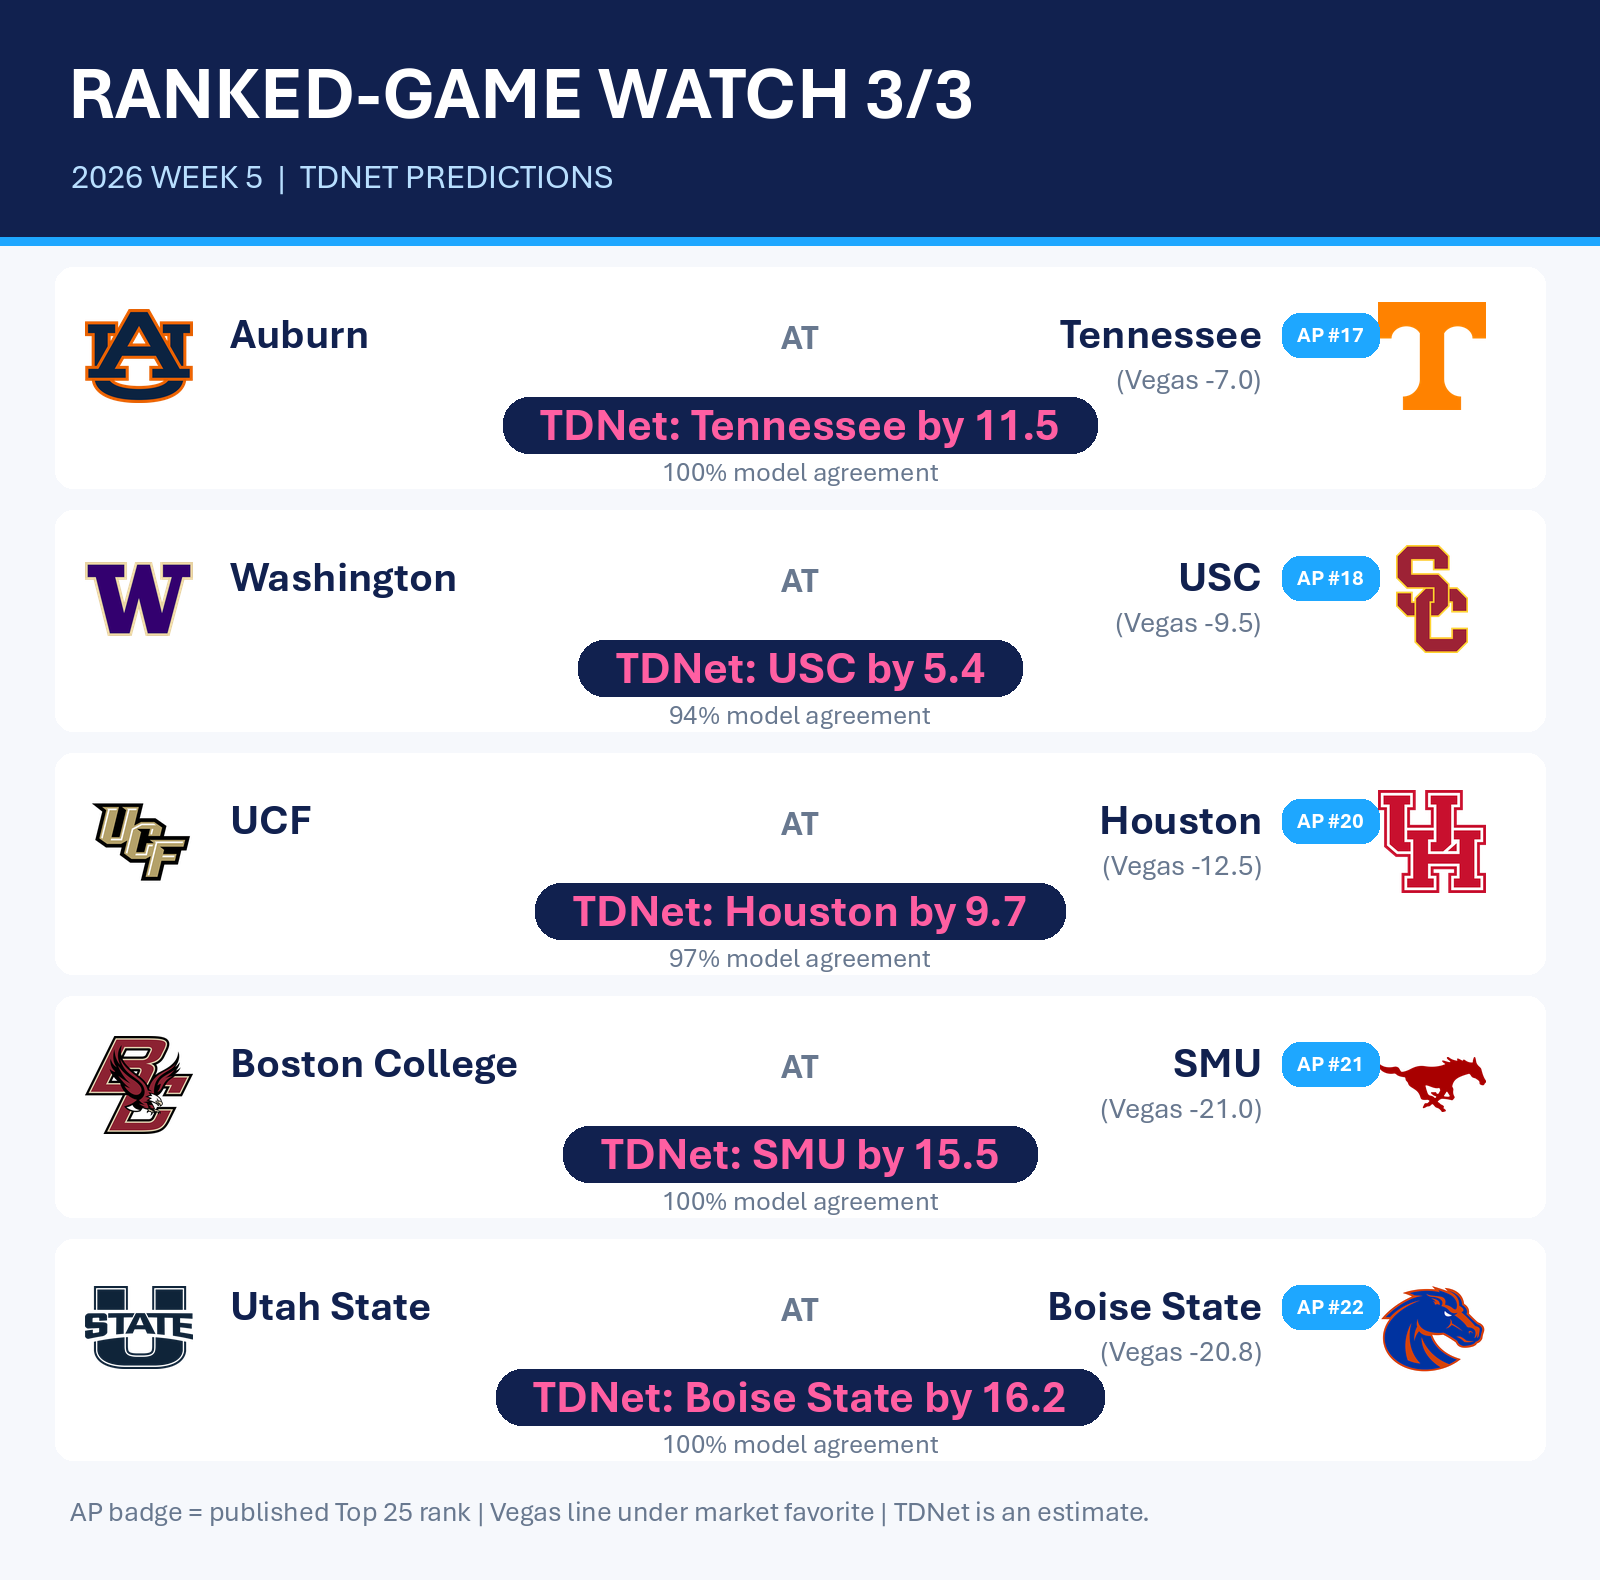
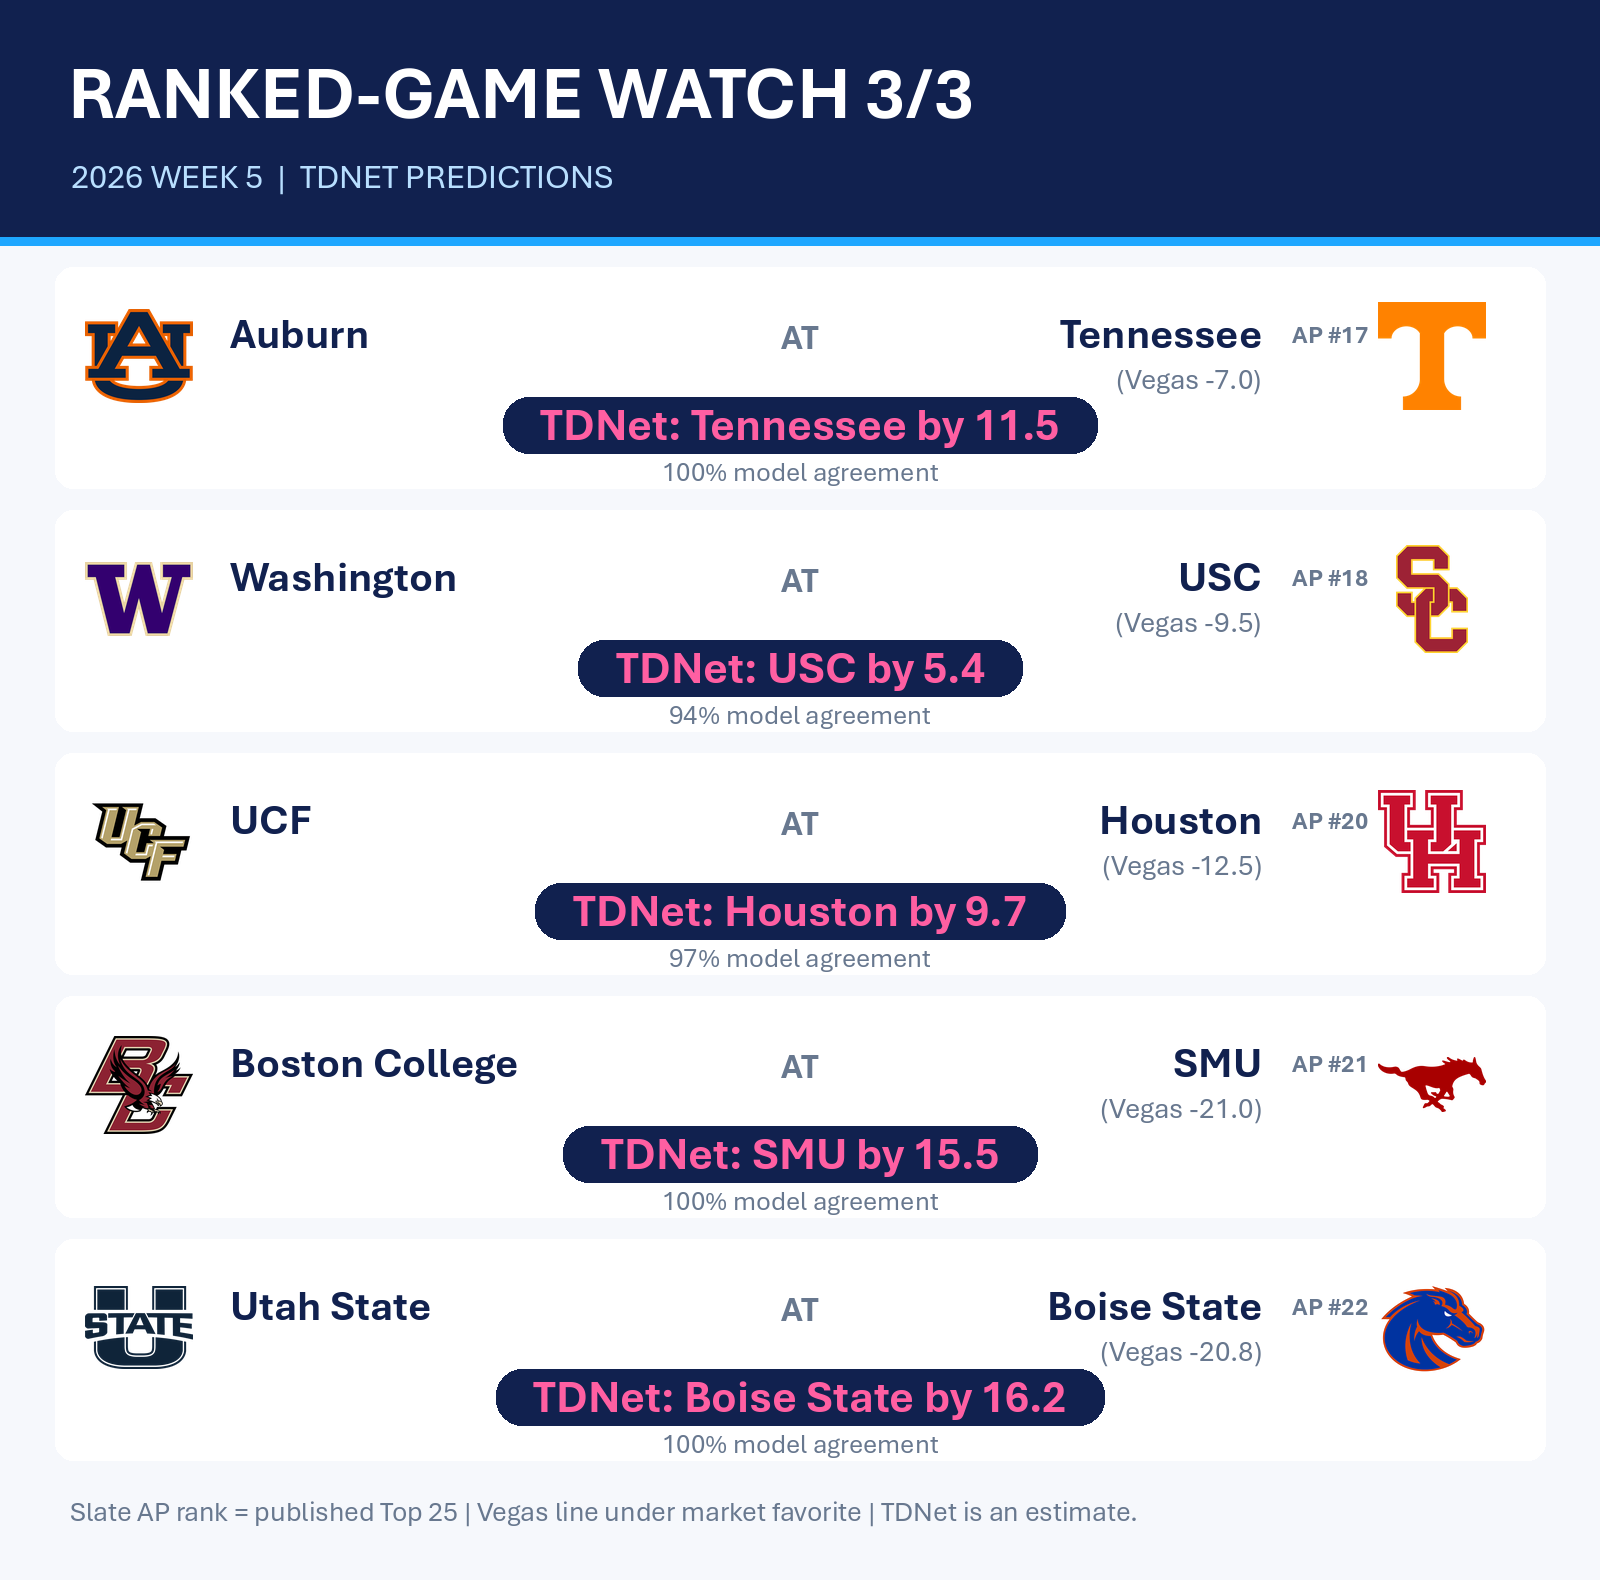
Use slate text for AP ranks on matchup cards

diff --git a/scripts/publication/build_social_media.py b/scripts/publication/build_social_media.py
@@ -107,7 +107,7 @@ def render_games(path: Path, games: pd.DataFrame, title: str, subtitle: str) -> 
         raise ValueError("A matchup card needs one to five games")
     canvas, draw, step = base_card(
         title, subtitle,
-        "AP badge = published Top 25 rank | Vegas line under market favorite | TDNet is an estimate.",
+        "Slate AP rank = published Top 25 | Vegas line under market favorite | TDNet is an estimate.",
         len(games),
     )
 
@@ -129,11 +129,9 @@ def render_games(path: Path, games: pd.DataFrame, title: str, subtitle: str) -> 
         logo(canvas, row.home_team, 1378, y + 35, 108)
         away_rank, home_rank = ap_rank(row, "away"), ap_rank(row, "home")
         if away_rank is not None:
-            draw.rounded_rectangle((197, y + 46, 294, y + 90), radius=18, fill=BLUE)
-            draw.text((245, y + 68), f"AP #{away_rank}", font=font(22, True), fill="white", anchor="mm")
+            draw.text((245, y + 68), f"AP #{away_rank}", font=font(25, True), fill=MUTED, anchor="mm")
         if home_rank is not None:
-            draw.rounded_rectangle((1282, y + 46, 1379, y + 90), radius=18, fill=BLUE)
-            draw.text((1330, y + 68), f"AP #{home_rank}", font=font(22, True), fill="white", anchor="mm")
+            draw.text((1330, y + 68), f"AP #{home_rank}", font=font(25, True), fill=MUTED, anchor="mm")
         away_text_x = 312 if away_rank is not None else 230
         home_text_x = 1262 if home_rank is not None else 1342
         draw.text((away_text_x, y + 67), row.away_team, font=fit_text(draw, row.away_team, 400, 42, bold=True), fill=NAVY, anchor="lm")
@@ -247,11 +245,11 @@ def build(season: int, week: int, output: Path) -> list[Path]:
         render_games(output / f"{stem}.png", group, f"RANKED-GAME WATCH {part + 1}/{ranked_groups}", f"{season} WEEK {week}  |  TDNET PREDICTIONS")
         close = group.sort_values("predicted_margin").iloc[0]
         matchup = f"{close.away_team} at {close.home_team}"
-        add(stem, f"{len(group)} Week {week} games involving AP-ranked teams. The tightest projection here: {matchup}, {close.pred_winner} by {float(close.predicted_margin):.1f}. #CFB #CollegeFootball #CFBPredictions", "Ranked-team games with team logos and AP rank badges, TDNet projected winner and margin, model agreement, and the published Vegas line beneath the market favorite.", [games_path])
+        add(stem, f"{len(group)} Week {week} games involving AP-ranked teams. The tightest projection here: {matchup}, {close.pred_winner} by {float(close.predicted_margin):.1f}. #CFB #CollegeFootball #CFBPredictions", "Ranked-team games with team logos and slate AP rank text, TDNet projected winner and margin, model agreement, and the published Vegas line beneath the market favorite.", [games_path])
 
     close5 = closest.head(5)
     render_games(output / "07_closest_games.png", close5, "FIVE GAMES ON THE EDGE", f"{season} WEEK {week}  |  SMALLEST PROJECTED MARGINS")
-    add("07_closest_games", f"Week {week}'s five closest TDNet projections are all within {float(close5['predicted_margin'].max()):.1f} points. Which one goes down to the wire? #CFB #CollegeFootball #CFBPredictions", "Five games with the smallest TDNet projected margins, team logos and AP rank badges where applicable, model agreement, and the published Vegas line beneath the market favorite.", [closest_path])
+    add("07_closest_games", f"Week {week}'s five closest TDNet projections are all within {float(close5['predicted_margin'].max()):.1f} points. Which one goes down to the wire? #CFB #CollegeFootball #CFBPredictions", "Five games with the smallest TDNet projected margins, team logos and slate AP rank text where applicable, model agreement, and the published Vegas line beneath the market favorite.", [closest_path])
 
     gaps = render_poll_gaps(output / "08_tdnet_vs_ap.png", poll, season, week)
     leader = gaps.iloc[0]
@@ -259,14 +257,14 @@ def build(season: int, week: int, output: Path) -> list[Path]:
 
     split5 = all_games.sort_values(["model_agreement", "game_id"]).head(5)
     render_games(output / "09_model_splits.png", split5, "WHERE MODELS SPLIT", f"{season} WEEK {week}  |  LOWEST PICK AGREEMENT")
-    add("09_model_splits", f"The TDNet models disagree most on these five Week {week} games. The closest vote is just {float(split5['model_agreement'].min()):.0%} for one side. #CFB #CollegeFootball #CFBPredictions", "Five games with the lowest model agreement, team logos and AP rank badges where applicable, TDNet projected margins, and the published Vegas line beneath the market favorite.", [all_games_path])
+    add("09_model_splits", f"The TDNet models disagree most on these five Week {week} games. The closest vote is just {float(split5['model_agreement'].min()):.0%} for one side. #CFB #CollegeFootball #CFBPredictions", "Five games with the lowest model agreement, team logos and slate AP rank text where applicable, TDNet projected margins, and the published Vegas line beneath the market favorite.", [all_games_path])
 
     index = [f"# {season} Week {week} social media pack", "", f"{len(created)} graphics with captions in matching `.md` files. Pick five or six to schedule on Monday. All figures use the published Week {week} snapshot; game predictions can become stale after kickoff.", "", "| Graphic | Topic |", "| --- | --- |"]
     topics = {"01_ratings_comparison": "Eight-system ratings table", "02_rating_rank_disagreement": "Rating-system rank disagreement", "03_tdnet_top10": "TDNet Top 10", "04_ranked_games_1": "Ranked games, part 1", "05_ranked_games_2": "Ranked games, part 2", "06_ranked_games_3": "Ranked games, part 3", "07_closest_games": "Closest projected games", "08_tdnet_vs_ap": "TDNet vs. AP poll gaps", "09_model_splits": "Games with the lowest model agreement"}
     for image in created:
         topic = topics[image.stem]
         index.append(f"| [{image.name}]({image.name}) | {topic}; [caption]({image.stem}.md) |")
-    index.extend(["", "Blue AP badges beside team logos show the published AP Top 25 rank; unranked teams have no badge. The parenthetical Vegas line is the spread captured at publication, shown beneath the market favorite; it can differ from the TDNet pick. Review the image and caption before scheduling. Post game previews before the relevant kickoff; avoid sharing outdated predictions after results are known. Captions omit links to keep them short. Team logos come from the repository's logo set.", ""])
+    index.extend(["", "Slate AP rank text beside team logos shows the published AP Top 25 rank; unranked teams have no rank label. The parenthetical Vegas line is the spread captured at publication, shown beneath the market favorite; it can differ from the TDNet pick. Review the image and caption before scheduling. Post game previews before the relevant kickoff; avoid sharing outdated predictions after results are known. Captions omit links to keep them short. Team logos come from the repository's logo set.", ""])
     (output / "README.md").write_text("\n".join(index), encoding="utf-8")
     return created
 

diff --git a/social_media/2026/week_05/README.md b/social_media/2026/week_05/README.md
@@ -14,4 +14,4 @@
 | [08_tdnet_vs_ap.png](08_tdnet_vs_ap.png) | TDNet vs. AP poll gaps; [caption](08_tdnet_vs_ap.md) |
 | [09_model_splits.png](09_model_splits.png) | Games with the lowest model agreement; [caption](09_model_splits.md) |
 
-Blue AP badges beside team logos show the published AP Top 25 rank; unranked teams have no badge. The parenthetical Vegas line is the spread captured at publication, shown beneath the market favorite; it can differ from the TDNet pick. Review the image and caption before scheduling. Post game previews before the relevant kickoff; avoid sharing outdated predictions after results are known. Captions omit links to keep them short. Team logos come from the repository's logo set.
+Slate AP rank text beside team logos shows the published AP Top 25 rank; unranked teams have no rank label. The parenthetical Vegas line is the spread captured at publication, shown beneath the market favorite; it can differ from the TDNet pick. Review the image and caption before scheduling. Post game previews before the relevant kickoff; avoid sharing outdated predictions after results are known. Captions omit links to keep them short. Team logos come from the repository's logo set.

diff --git a/social_media/README.md b/social_media/README.md
@@ -12,6 +12,6 @@ The ratings comparison and rank-disagreement graphics are included when their pu
 
 Matchup cards show each game's Vegas spread captured at publication in parentheses beneath the market favorite. That line can differ from the TDNet predicted winner or margin. A missing published line stops generation rather than leaving a game unlabeled.
 
-Blue `AP #` badges next to team logos show the AP Top 25 rank in the published pregame snapshot. Teams outside that Top 25 have no badge.
+Slate `AP #` text next to team logos shows the AP Top 25 rank in the published pregame snapshot. Teams outside that Top 25 have no rank label.
 
 On Monday, review the pack, choose five or six posts, and schedule game previews before their kickoffs. Rankings and ratings can stay relevant longer; do not schedule a prediction after the game. The captions deliberately omit URLs, so you can paste them directly into X and add a link only when useful.

diff --git a/social_media/2026/week_05/07_closest_games.md b/social_media/2026/week_05/07_closest_games.md
@@ -4,7 +4,7 @@ Week 5's five closest TDNet projections are all within 1.3 points. Which one goe
 
 ## Image alt text
 
-Five games with the smallest TDNet projected margins, team logos and AP rank badges where applicable, model agreement, and the published Vegas line beneath the market favorite.
+Five games with the smallest TDNet projected margins, team logos and slate AP rank text where applicable, model agreement, and the published Vegas line beneath the market favorite.
 
 ## Sources
 

diff --git a/social_media/2026/week_05/09_model_splits.md b/social_media/2026/week_05/09_model_splits.md
@@ -4,7 +4,7 @@ The TDNet models disagree most on these five Week 5 games. The closest vote is j
 
 ## Image alt text
 
-Five games with the lowest model agreement, team logos and AP rank badges where applicable, TDNet projected margins, and the published Vegas line beneath the market favorite.
+Five games with the lowest model agreement, team logos and slate AP rank text where applicable, TDNet projected margins, and the published Vegas line beneath the market favorite.
 
 ## Sources
 

diff --git a/social_media/2026/week_05/04_ranked_games_1.md b/social_media/2026/week_05/04_ranked_games_1.md
@@ -4,7 +4,7 @@
 
 ## Image alt text
 
-Ranked-team games with team logos and AP rank badges, TDNet projected winner and margin, model agreement, and the published Vegas line beneath the market favorite.
+Ranked-team games with team logos and slate AP rank text, TDNet projected winner and margin, model agreement, and the published Vegas line beneath the market favorite.
 
 ## Sources
 

diff --git a/social_media/2026/week_05/05_ranked_games_2.md b/social_media/2026/week_05/05_ranked_games_2.md
@@ -4,7 +4,7 @@
 
 ## Image alt text
 
-Ranked-team games with team logos and AP rank badges, TDNet projected winner and margin, model agreement, and the published Vegas line beneath the market favorite.
+Ranked-team games with team logos and slate AP rank text, TDNet projected winner and margin, model agreement, and the published Vegas line beneath the market favorite.
 
 ## Sources
 

diff --git a/social_media/2026/week_05/06_ranked_games_3.md b/social_media/2026/week_05/06_ranked_games_3.md
@@ -4,7 +4,7 @@
 
 ## Image alt text
 
-Ranked-team games with team logos and AP rank badges, TDNet projected winner and margin, model agreement, and the published Vegas line beneath the market favorite.
+Ranked-team games with team logos and slate AP rank text, TDNet projected winner and margin, model agreement, and the published Vegas line beneath the market favorite.
 
 ## Sources
 
